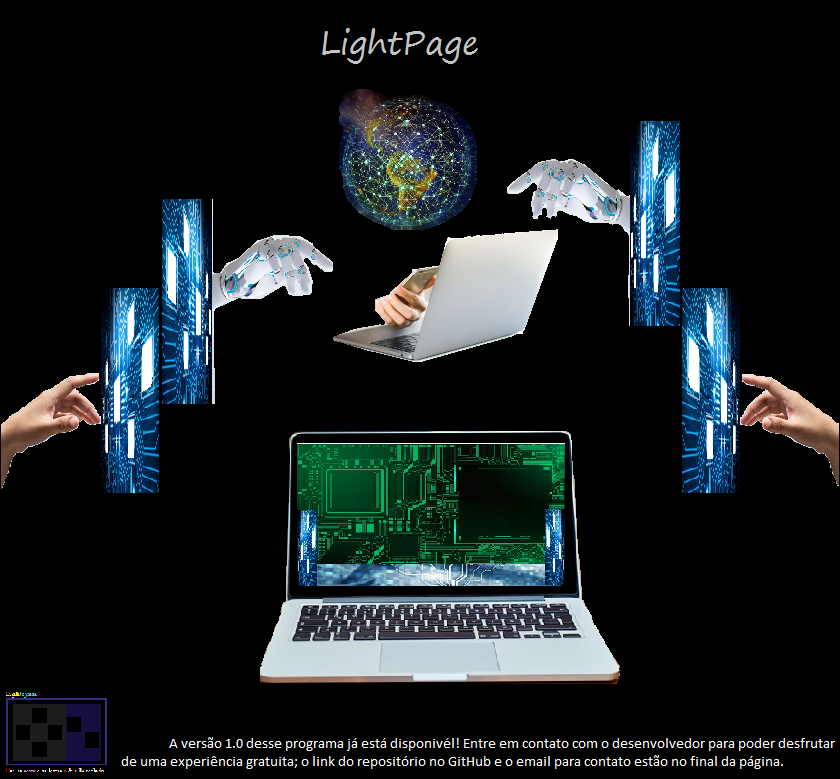
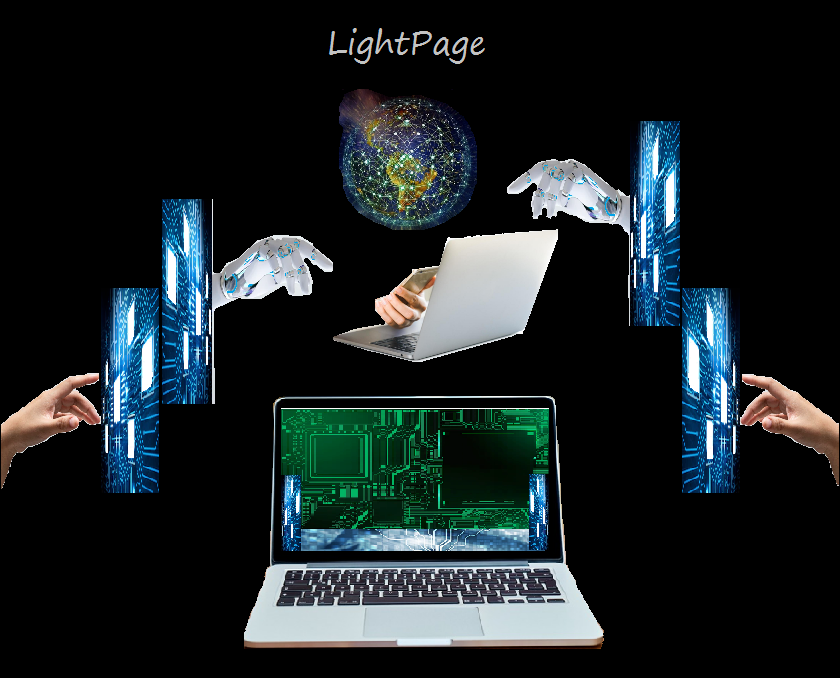
commit LinkYoutube

diff --git a/index.html b/index.html
@@ -9,34 +9,41 @@
   </head>
   <body style="background-color:#000">
 
-    <header><center><marquee  width="100%" behavior="scrool" direction="Left" bgcolor="#180e3d" font-size= 0.7em><font color="#f5f6fa">
-      Esse projeto esta sendo desenvolvido para o manuseio de robôs através de
-    bits de luz do monitor, e manipuladas com a programação. Com as funcionalidades do
-    Node e Soquet.io, uma página on line poderá conectar computadores pela internet em tempo real;
-     e seguindo a lógica de jogos multplayer com o canvas do html, a base do projeto foi
-     desenvolvida. Basicamente é uma página html com a apresentaçao de canvas
-     manipulaveis pelos usuários através das setas do teclado, que poderá apagar e acender bits de
-    luz no monitor. Fica a disposição do usuário os tipos de sensores usados para captar
-     as variações de ondas do monitor; e a adaptação de joystik para melhor comodidade. Os tipos de
-     robôs que poderão ser usados é opcional, mas fica a sugestão de arduinos. 
-     O complemento básico de uso da página é a interatividade em tempo real com a webcam,
-      infelizmente atualizações ainda estão sendo trabalhadas e a página ainda não fornece
-       suporte a essa funcionalidade, no entanto outros aplicativos podem fornecer esse suporte; 
-       ao acessar uma video conferência com qualquer outro aplicativo, essa página pode funcionar 
-       em segundo plano, dessa forma é possivel visualizar um robô recebendo comandos através de
-        bits de luz, em qualquer parte do mundo!
-    </font></marquee></center></header>
-    
-    
     <div>
     
       <img src="img_1.PNG" width="100%">
+      
+    </div>
+    <center>
+    <iframe width="560" height="315" src="https://www.youtube.com/embed/CGO-9ggBwcM" title="YouTube video player" frameborder="0" allow="accelerometer; autoplay; clipboard-write; encrypted-media; gyroscope; picture-in-picture; web-share" allowfullscreen></iframe>
+  </center>
+  <header><center><marquee  width="100%" behavior="scrool" direction="Left" bgcolor="#180e3d" font-size= 0.7em><font color="#f5f6fa">
+    Esse projeto esta sendo desenvolvido para o manuseio de robôs através de
+  bits de luz do monitor, e manipuladas com a programação. Com as funcionalidades do
+  Node e Soquet.io, uma página on line poderá conectar computadores pela internet em tempo real;
+   e seguindo a lógica de jogos multplayer com o canvas do html, a base do projeto foi
+   desenvolvida. Basicamente é uma página html com a apresentaçao de canvas
+   manipulaveis pelos usuários através das setas do teclado, que poderá apagar e acender bits de
+  luz no monitor. Fica a disposição do usuário os tipos de sensores usados para captar
+   as variações de ondas do monitor; e a adaptação de joystik para melhor comodidade. Os tipos de
+   robôs que poderão ser usados é opcional, mas fica a sugestão de arduinos. 
+   O complemento básico de uso da página é a interatividade em tempo real com a webcam,
+    infelizmente atualizações ainda estão sendo trabalhadas e a página ainda não fornece
+     suporte a essa funcionalidade, no entanto outros aplicativos podem fornecer esse suporte; 
+     ao acessar uma video conferência com qualquer outro aplicativo, essa página pode funcionar 
+     em segundo plano, dessa forma é possivel visualizar um robô recebendo comandos através de
+      bits de luz, em qualquer parte do mundo!
+  </font></marquee></center></header>
+    <div>
+    
+      <img src="img_1_222.png" width="100%">
       
     </div>
     <p align=right sinze=0.9em margin= 0 margin= auto>
       <a href="https://closedexpertidentifier.rafaelsilva666.repl.co/"><font color="#f5f6fa">Fale com o administrador, receba sua senha e acesse este link da versão 1.0.</font></a>
     
     </p>
+
     <a href="salas.html" color= "#32226c">Salas reservadas</a>
     
     <div>
@@ -50,10 +57,7 @@
       <a href="https://github.com/Rafael-Silva-Natal" color= "#32226c">Projéto com repositório público no GitHub...</a></p>
     </div>
     
-    
-          <p align=right ><font size= 0.7em color= "#32226c"; margin= 0 margin= auto width= 100% >Protótipo de página feita para o GitHub.</br><font color= "#f5f6fa">Working...</font></font></p>
-       
-          <marquee  width="100%" behavior="scrool" direction="Left" bgcolor="#180e3d" font-size= 0.7em><font color="#f5f6fa">
+          <marquee margin= 0 width="100%" behavior="scrool" direction="Left" bgcolor="#180e3d" font-size= 0.7em><font color="#f5f6fa">
             LightPage_LightJoystik_versão1.0_Arduino_project_Rafael Silva_Natal_RN_Brasil -Doe qualquer valor e ajude o desenvolvedor desse projeto... PIX : atomaespionka@gmail.com
             </font></marquee>
 
